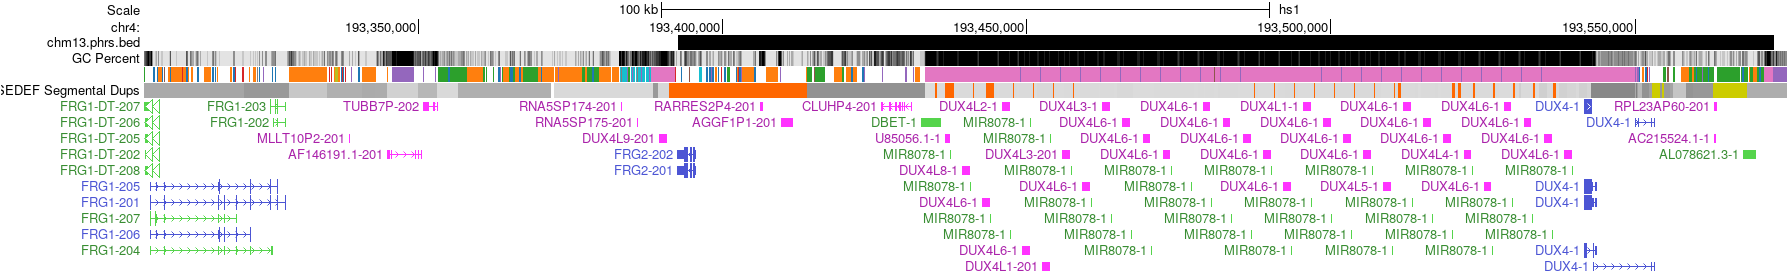
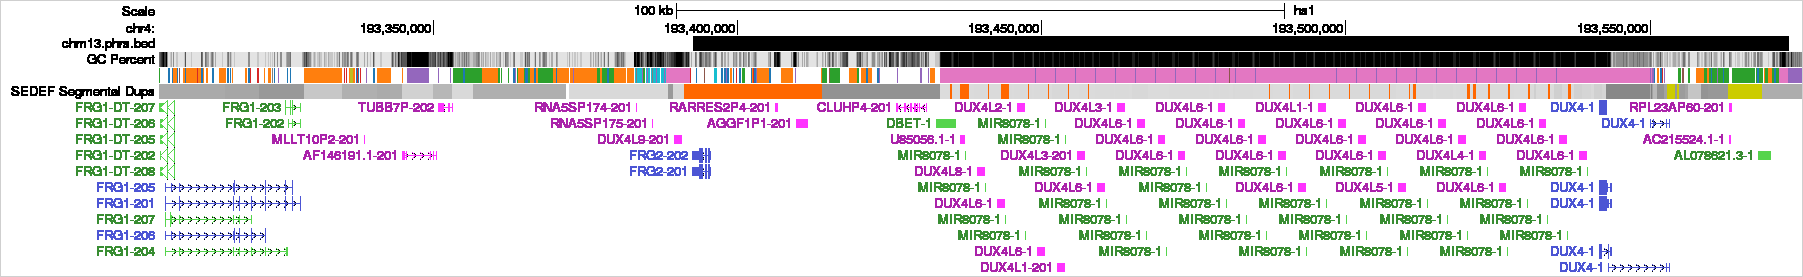
Fig. 3 panels re-rendered on UCSC with the May configuration and a 22-character label column, so 'SEDEF Segmental Dups' is no longer cut (R3 minor)

Changed region(s): [[0.0, 0.0, 1.0, 1.0], [0.8926, 0.4655, 0.9849, 0.5818], [0.1847, 0.0873, 0.2462, 0.1455]]

diff --git a/submission/scripts/figures/render_fig3_ucsc.py b/submission/scripts/figures/render_fig3_ucsc.py
@@ -1,0 +1,82 @@
+#!/usr/bin/env python3
+"""Fig. 3 UCSC panels re-rendered as in May 2026 (slides/chm13-phr-ucsc-browser, render_ucsc_browser_suite.py), with a wider
+label column so that the side label "SEDEF Segmental Dups" (20 characters) is no longer cut ("EDEF Segmental Dups").
+
+usage (repo root): python3 submission/scripts/figures/render_fig3_ucsc.py OUT_DIR [--label-width N] [--text-font NAME]
+A new UCSC session (the May session 3966979908_... was reused since and no longer has the custom track or the same tracks):
+  step 1: load data/chm13.phrs.bed (checked equal to the public GitHub copy) as a custom track named chm13.phrs.bed, as in May;
+  step 2: per panel, the May configuration read from the May HTML (hgTracks JSON): ruler, chm13.phrs.bed, GC Percent,
+  RepeatMasker, SEDEF Segmental Dups dense, CAT/Liftoff Genes pack, in that image order (imgOrd 0-5), same windows,
+  hgt.labelWidth N (default 22), pix adjusted so that the data image keeps the May width of 1645 px; center labels off, Helvetica
+  normal, text size 12 (May: label width 20 and text size 12 give its row heights 35/16/176 and data width 1645 exactly).
+Panel = side-label crop + data crop of the UCSC sprites (CSS offsets), appended, 1 px #cfcfcf border (as the May script).
+Checks: track rows and order as in May, data width 1645, then a pixel comparison of the data part with the May panel.
+out: OUT_DIR/<Fig3 panel name>.png, OUT_DIR/compare.tsv; log on stderr.
+"""
+import html, json, re, subprocess, sys, tempfile
+from pathlib import Path
+from PIL import Image, ImageChops
+OUT = Path(sys.argv[1]); LW = int(sys.argv[sys.argv.index("--label-width") + 1]) if "--label-width" in sys.argv else 22
+FONT = sys.argv[sys.argv.index("--text-font") + 1] if "--text-font" in sys.argv else "Helvetica"
+OUT.mkdir(parents=True, exist_ok=False)
+BASE = "https://genome.ucsc.edu/cgi-bin/hgTracks"; DB = "hub_3671779_hs1"; PIX = 1800 + 7 * (LW - 20)
+RAW = "https://raw.githubusercontent.com/pangenome/phrs/main/data/chm13.phrs.bed"
+MAY = Path("slides/chm13-phr-ucsc-browser/_assets/ucsc/panels")
+PANELS = [("Fig3a_C1_chr4q", "chr4", 193304946, 193574945, "chr4q_chr4_193304946_193574945"),
+          ("Fig3a_C1_chr10q", "chr10", 134488135, 134758134, "chr10q_chr10_134488135_134758134"),
+          ("Fig3b_C2_chr10p", "chr10", 1, 105002, "chr10p_chr10_1_105002"),
+          ("Fig3b_C2_chr18p", "chr18", 1, 397502, "chr18p_chr18_1_397502"),
+          ("Fig3c_C11_chr5q", "chr5", 181752940, 182045439, "chr5q_chr5_181752940_182045439"),
+          ("Fig3c_C11_chr6q", "chr6", 171909129, 172126628, "chr6q_chr6_171909129_172126628")]
+HUB = ["hub_3671779_gc5Base", "hub_3671779_t2tRepeatMasker", "hub_3671779_sedefSegDups", "hub_3671779_catLiftOffGenesV1"]
+def log(m): print(m, file=sys.stderr, flush=True)
+tmp = Path(tempfile.mkdtemp(prefix="fig3ucsc_", dir="/tmp")); jar = tmp / "cookies.txt"
+def post(params, dest):
+    cmd = ["curl", "-fsSL", "-A", "Mozilla/5.0", "--compressed", "--retry", "3", "--connect-timeout", "30", "-c", str(jar), "-b", str(jar), BASE]
+    for k, v in params.items(): cmd += ["--data-urlencode", f"{k}={v}"]
+    subprocess.run(cmd + ["-o", str(dest)], check=True); return dest.read_text(errors="replace")
+def get(url, dest): subprocess.run(["curl", "-fsSL", "-A", "Mozilla/5.0", "--retry", "3", "-o", str(dest), url], check=True)
+bed = subprocess.run(["curl", "-fsSL", RAW], check=True, capture_output=True, text=True).stdout
+if bed != Path("data/chm13.phrs.bed").read_text(): sys.exit("ERROR the GitHub copy differs from data/chm13.phrs.bed")
+t = post({"db": DB, "position": "chr4:193304946-193574945", "hgt.customText": "track name=chm13.phrs.bed\n" + bed}, tmp / "step1.html")  # named as in May
+sid = re.search(r"hgsid=(\d+_[A-Za-z0-9]+)", t).group(1)
+ct = sorted(set(re.findall(r"tr_(ct_chm13phrsbed_\d+)", t)))
+if len(ct) != 1: sys.exit(f"ERROR custom track rows {ct}")
+ct = ct[0]; log(f"session created, custom track {ct}, label width {LW}, pix {PIX}")
+order = ["ruler", ct] + HUB
+rows_out = ["panel\tmay_size\tnew_size\tdata_pixels\tdata_identical\tdata_identical_fraction"]
+for name, chrom, a, b, may in PANELS:
+    p = {"hgsid": sid, "db": DB, "position": f"{chrom}:{a}-{b}", "pix": PIX, "hideTracks": 1, "hgt.labelWidth": LW,
+         "ruler": "dense", ct: "dense", "hub_3671779_gc5Base": "dense", "hub_3671779_t2tRepeatMasker": "dense",
+         "hub_3671779_sedefSegDups": "dense", "hub_3671779_catLiftOffGenesV1": "pack", "centerLabels": 0, "textFont": FONT, "textStyle": "Normal", "textSize": 12}
+    p.update({f"{tr}_imgOrd": i for i, tr in enumerate(order)})
+    for _ in range(3):  # pix is the whole image width: adjust it until the data image is 1645 px wide, as in May
+        t = post(p, tmp / f"{name}.html")
+        dw = int(re.search(r"width:(\d+)px; height:\d+px;' class='sliceDiv dataImg", t).group(1))
+        if dw == 1645: break
+        p["pix"] = int(p["pix"]) + 1645 - dw; log(f"{name}: data width {dw}, pix -> {p['pix']}")
+    got = re.findall(r"<TR id='tr_([A-Za-z0-9_]+)'", t)
+    if got != order: sys.exit(f"ERROR {name}: rows {got}, expected {order}")
+    sl = {}
+    for kind in ("sideLab", "dataImg"):
+        m = re.findall(rf"<div style='width:(\d+)px; height:(\d+)px;' class='sliceDiv {kind}[^']*'>.*?<IMG\b[^>]*\bsrc='([^']+)'[^>]*\bstyle='([^']+)'", t, re.S)
+        w = {int(x[0]) for x in m}; src = {x[2] for x in m}
+        xs = {-int(re.search(r"left:\s*(-?\d+)px", html.unescape(x[3])).group(1)) for x in m}
+        hs = [-int(re.search(r"top:\s*(-?\d+)px", html.unescape(x[3])).group(1)) + int(x[1]) for x in m]
+        if len(w) != 1 or len(src) != 1 or len(xs) != 1: sys.exit(f"ERROR {name} {kind}: widths {w}, sources {src}, x {xs}")
+        f = tmp / f"{name}_{kind}.png"; get("https://genome.ucsc.edu/cgi-bin/" + html.unescape(src.pop()), f)
+        sl[kind] = (Image.open(f).convert("RGB"), xs.pop(), w.pop(), max(hs))
+    if sl["dataImg"][2] != 1645: sys.exit(f"ERROR {name}: data width {sl['dataImg'][2]}, May 1645")
+    h = max(sl["sideLab"][3], sl["dataImg"][3])
+    side = sl["sideLab"][0].crop((sl["sideLab"][1], 0, sl["sideLab"][1] + sl["sideLab"][2], h))
+    data = sl["dataImg"][0].crop((sl["dataImg"][1], 0, sl["dataImg"][1] + sl["dataImg"][2], h))
+    pan = Image.new("RGB", (side.width + data.width + 2, h + 2), (0xcf, 0xcf, 0xcf))
+    pan.paste(side, (1, 1)); pan.paste(data, (1 + side.width, 1)); pan.save(OUT / f"{name}.png")
+    old = Image.open(MAY / f"{may}.png").convert("RGB"); ow = old.width - 2 - 1645
+    od = old.crop((1 + ow, 1, 1 + ow + 1645, old.height - 1)); nd = data
+    n = min(od.height, nd.height); diff = ImageChops.difference(od.crop((0, 0, 1645, n)), nd.crop((0, 0, 1645, n)))
+    same = sum(1 for px in diff.get_flattened_data() if px == (0, 0, 0)); tot = 1645 * n
+    rows_out.append(f"{name}\t{old.width}x{old.height}\t{pan.width}x{pan.height}\t{tot}\t{same}\t{same / tot:.6f}")
+    log(f"{name}: May {old.width}x{old.height}, new {pan.width}x{pan.height}; data part identical pixels {same}/{tot} ({same / tot:.4%}), heights May {od.height} new {nd.height}")
+(OUT / "compare.tsv").write_text("\n".join(rows_out) + "\n")
+log(f"wrote {OUT}")

diff --git a/response/POINT_BY_POINT.md b/response/POINT_BY_POINT.md
@@ -49,7 +49,7 @@ Status checked against `submission/paper.tex` at `85c1840` on 2026-11-20, rows R
 | R3-M5 | somatic vs meiotic | stage test done (R1-M7) | limitation at 543 | check wording |
 | R3-M6 | thresholds behind 41 of 48 arms | done (Lane results: 41 arms at fail 1-4 and flank 25-400 kb) | written (179bc78), Methods PHR detection | done |
 | R3-M7 / R3-M8 | order vs similarity, call candidates consistently | done | ED3, retraction | done |
-| R3 minors | Fig. 3 crop, define NOR | NOR done (spelled out, bb79ed7; no "NOR" left in paper.tex). Fig. 3: the UCSC side label "SEDEF Segmental Dups" is cut to "EDEF Segmental Dups" in all 6 panels (already in the UCSC sprite) | re-render with a wider label column or relabel (user) |
+| R3 minors | Fig. 3 crop, define NOR | done. NOR spelled out (bb79ed7). Fig. 3: the UCSC side label "SEDEF Segmental Dups" was cut to "EDEF Segmental Dups" by UCSC's 20-character label column; panels re-rendered with the May configuration and a 22-character column (render_fig3_ucsc.py): same heights and data width, PHR/GC/RepeatMasker/SEDEF rows pixel-identical to May, text drawn slightly heavier by the current UCSC | letter: the cut was a browser label, now fixed |
 | R5-L86 | window-size sensitivity | done (text) | the PHR call already uses 5 kb windows in a complete all-against-all of the flanks (Methods); 100 kb windows are only the Fig. 1A survey; Results now says "5 kb" | response: no rerun needed, stopping-rule and scan-length sensitivity already in Methods |
 | R5-L152 | GO stability across assemblies | done | DUX4/DUX4L copies per haplotype from the Liftoff annotation: 4q median 25 (2-82, 357), 10q 20 (1-77, 355), CHM13 34 and 34; cites Lucas 2026; the ZGA terms rest on DUX4 copies alone (`scripts/cladistics/dux4_copies_per_window.tsv`) | paper.tex C1 paragraph and enrichment paragraph |
 | R5-L189 | Hi-C, Pore-C, CiFi cell types | done | Methods, first lines of "Hi-C, Pore-C and CiFi pipeline": HG002 Hi-C (BioSample SAMN03283347, B-lymphocyte, Coriell) and CiFi (SAMEA117757461, HG002 LCL) checked in the metadata, Pore-C taken as the same HG002 line; HPRC samples B-lymphocyte (230/234 in the HPRC sample table); CHM13hTERT; mouse spermatocytes | cell type per dataset |

diff --git a/submission/scripts/figures/README.md b/submission/scripts/figures/README.md
@@ -70,8 +70,10 @@ cp /home/guarracino/Dropbox/git/HPRCv2/p_interchrom_karyogram_count_rainbow_inse
 ## VENDORED — copied, not computed
 
 ```bash
-# Fig3 — UCSC hs1 browser screenshots (rebuild needs internet + a UCSC session:
-#   python3 slides/chm13-phr-ucsc-browser/_scripts/render_ucsc_browser_suite.py --force)
+# Fig3 — UCSC hs1 browser screenshots. Since 2026-11-27 the six panels come from
+#   python3 submission/scripts/figures/render_fig3_ucsc.py OUT_DIR   (internet; new UCSC session, May 2026 track
+#   configuration, label column 22 characters so that "SEDEF Segmental Dups" is not cut), then cp OUT_DIR/Fig3*.png $M/.
+# The May 2026 panels below came from slides/chm13-phr-ucsc-browser/_scripts/render_ucsc_browser_suite.py --force.
 P=slides/chm13-phr-ucsc-browser/_assets/ucsc/panels; M=submission/fig/MainFigures
 cp $P/chr4q_chr4_193304946_193574945.png   $M/Fig3a_C1_chr4q.png
 cp $P/chr10q_chr10_134488135_134758134.png $M/Fig3a_C1_chr10q.png
